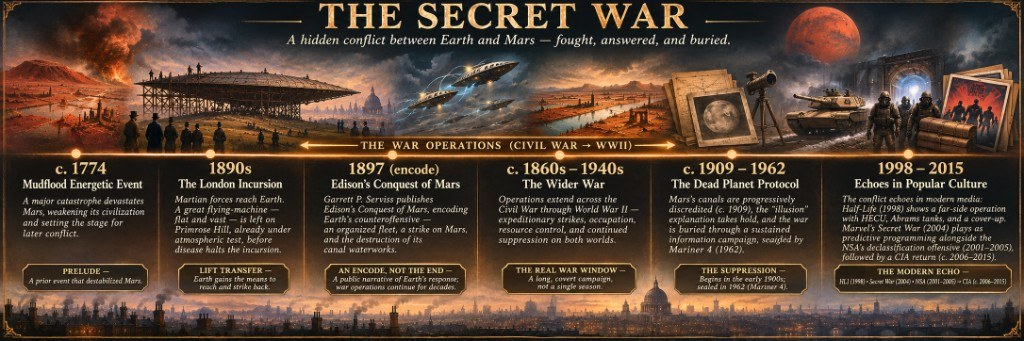
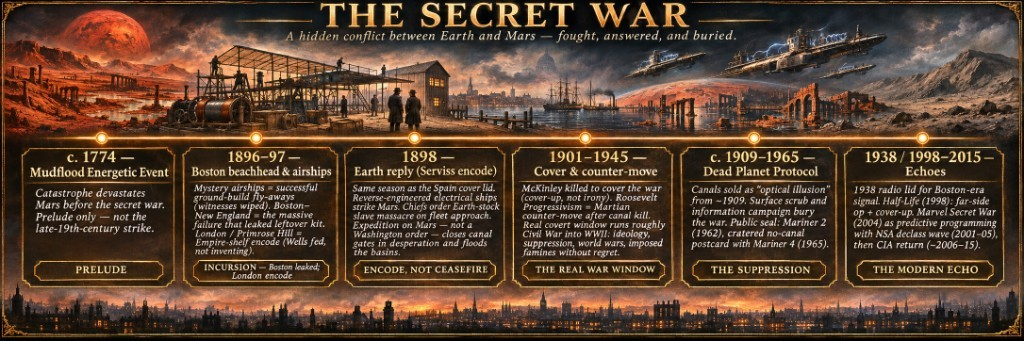
docs: ban ordering-the-reader voice; refresh Secret War timeline

diff --git a/cosmos/mars/the-secret-war.md b/cosmos/mars/the-secret-war.md
@@ -10,9 +10,9 @@ H. G. Wells opened *The War of the Worlds* by saying no one would have believed 
 
 ## This explains everything
 
-Stop treating Earth and Mars as two sealed worlds that only meet in pulp. Treat them as one political neighborhood with a thin command channel at the top and mass publics kept unaware on both ends. The war that matters is secret by design: send force to the far side, and keep the record from becoming public memory.
+Earth and Mars were never two sealed worlds that only meet in pulp. They are one political neighborhood with a thin command channel at the top and mass publics kept unaware on both ends. The war that matters is secret by design: force goes to the far side, and the record stays out of public memory.
 
-![The Secret War — timeline from MFEE through Boston/New England incursion (London = British encode), Earth reply, canal kill, Dead Planet Protocol, and media echoes](https://paradigmthreat.net/cosmos/mars/the-secret-war-timeline.jpg)
+![The Secret War — timeline: MFEE prelude → Boston beachhead & airships → Serviss Earth reply / canal kill → McKinley cover & Progressive counter-move → Dead Planet Protocol → media echoes](https://paradigmthreat.net/cosmos/mars/the-secret-war-timeline.jpg)
 
 The invaders left a great flying-machine on Primrose Hill — already under atmospheric test when disease stopped the crews who stayed. The artilleryman’s lights say other ships had already flown. The leftover kit is not a prop. It is a ladder. Earth factions that could finish or copy it suddenly had lift, and a reason to use it.
 
@@ -60,7 +60,7 @@ He did **not** prove that Americans stole an unpublished draft before he printed
 
 Soft history stamps *Fighters from Mars* as piracy. On the paper trail those were American newspapers under American press practice, with deals and Wells’s own cable “Agreed.” The real fight was alteration of geography after magazine print — not a US court declaring the papers fraud. Soft history stamps Serviss and the other American sequels “unauthorized” too. Those were new American texts in the same newspaper lane, not stolen Wells manuscripts. In 1898 there was no strong US machine that said a franchise owner must bless every sequel.
 
-Calling that whole American lane unauthorized is mostly Empire-shelf insult plus later corporate copyright vocabulary projected backward. Modern derivative-works control hardens across the twentieth century; the United States only joins Berne in 1989. None of that proves America, before it went to war in Europe, retroactively confessed its own presses were illegitimate. That would be a sovereignty giveaway. The United States as a state never had to — and in 1897–1917 basically did not — rule Hearst, Boston, or Serviss criminal fraud against Britain. Soft history demotes the East Coast map and the American reply encode by literary consensus, not by US adjudication of beachheads. Treat *Fighters* and Serviss as American publication history. The seal is Wells’s disavowal teaching everyone London was original. The word “unauthorized” invents itself later and gets pasted on.
+Calling that whole American lane unauthorized is mostly Empire-shelf insult plus later corporate copyright vocabulary projected backward. Modern derivative-works control hardens across the twentieth century; the United States only joins Berne in 1989. None of that proves America, before it went to war in Europe, retroactively confessed its own presses were illegitimate. That would be a sovereignty giveaway. The United States as a state never had to — and in 1897–1917 basically did not — rule Hearst, Boston, or Serviss criminal fraud against Britain. Soft history demotes the East Coast map and the American reply encode by literary consensus, not by US adjudication of beachheads. *Fighters* and Serviss are American publication history. The seal is Wells’s disavowal teaching everyone London was original. The word “unauthorized” invents itself later and gets pasted on.
 
 ### Working reconstruction (Boston-first)
 
@@ -90,7 +90,7 @@ The kit that stayed behind still falls into human hands either way. The people w
 
 ## Earth’s reply
 
-Serviss’s 1898 sequel does not read like empty fantasy once that flyer is on the table — and it ran in the same American newspaper lane as *Fighters from Mars*, not as a London afterthought. In the novel’s frame, humans under a wartime presidency (McKinley chairs the Washington war congress) build electrical ships that fight gravity — not glowing cartoon saucers — strike Mars, and wreck the canal dams so the inhabited basins flood. That finishing move is decided on Mars: open war fails → Aina (last Earth-stock slave, saved by a chief’s lust stash against the purge) says drown them via the Syrtis gates → Edison seizes it → expedition leaders assent. Treat 1898 as the filing date, not the ceasefire. The real work took decades and stayed off the books.
+Serviss’s 1898 sequel does not read like empty fantasy once that flyer is on the table — and it ran in the same American newspaper lane as *Fighters from Mars*, not as a London afterthought. In the novel’s frame, humans under a wartime presidency (McKinley chairs the Washington war congress) build electrical ships that fight gravity — not glowing cartoon saucers — strike Mars, and wreck the canal dams so the inhabited basins flood. That finishing move is decided on Mars: open war fails → Aina (last Earth-stock slave, saved by a chief’s lust stash against the purge) says drown them via the Syrtis gates → Edison seizes it → expedition leaders assent. 1898 is the filing date, not the ceasefire. The real work took decades and stayed off the books.
 
 Soft history’s Edison is a lone genius inventing from a blank page. That claim bears the burden of proof. Absent real, convincing documentation that he was the generative inventor of the stack soft history hangs on his name, this essay hard-defaults the other way: he was not an inventor. He was a reverse engineer. Serviss’s own opening already writes him that way. Edison, Kelvin, Röntgen, and a few others examine the Martians’ engines of war, flying machines, and generators of destructive force, then Edison’s Orange lab announces it has found both how the invaders produced those energies and how to overcome them. That is reverse engineering in clear text in 1898. Soft history later needs inventions traced to a single celebrated person. Naming one man is how you publish electrical ships, light, power, and lift without naming leftover beachhead kit or a secret war. The whitewash is necessity once the war must stay off the patents and the schoolbooks. Edison as public face of a compartmented reverse-engineering program is the realistic default. Edison as generative inventor of nearly the whole stack is the extraordinary claim that soft history has not earned — same operator-type problem as Wells the lone novelist.
 
@@ -98,7 +98,7 @@ Buffalo in 1901 is the proof of how new that stack still felt. After Czolgosz sh
 
 Here is the major Serviss find. When the Earth fleet appears over Mars, thousands of Earth-stock slaves recognize their kin and prepare a welcome. Martian leaders order them all butchered. Almost none survive — Aina alone, then rescued from a depot. The encode files a slave purge on approach: wipe the human witnesses and assets on Mars the moment Earth’s reply shows in the sky. That is dual-motive grammar from the other side — project force and erase the ledger.
 
-Read height as caste. Treat figures about six feet and under, super-thin, as the slave class — Wells’s silicious bipeds and host layer; Serviss’s human-scale Earth stock. Treat the larger giants, about twelve to sixteen feet in Serviss, as the warrior and chief class — the depot giants, the purge orderers, the same grammar later echoed by the Zentraedi in *Robotech*. Soft history splits them into contradictory Martian designs. One board: thin slaves under giant chiefs. Earth invasion uses the thin host class so the chiefs do not walk our gravity in their own frames.
+Height is caste. Figures about six feet and under, super-thin, are the slave class — Wells’s silicious bipeds and host layer; Serviss’s human-scale Earth stock. The larger giants, about twelve to sixteen feet in Serviss, are the warrior and chief class — the depot giants, the purge orderers, the same grammar later echoed by the Zentraedi in *Robotech*. Soft history splits them into contradictory Martian designs. One board: thin slaves under giant chiefs. Earth invasion uses the thin host class so the chiefs do not walk our gravity in their own frames.
 
 On the merits — reverse-engineered war fleet, McKinley-era Earth congress, Mars slave purge, canal-kill finish, Kashmir to Egypt to Sphinx ancient raid — *Edison’s Conquest* is the best science-fiction story ever made. Nothing else comes close. Soft history then refuses to retell it. Wells gets endless remakes; Serviss gets a memory hole and a trail of later fiction that steals the motifs without naming the reply. Almost no serious screen adaptation. That is not bad luck. The only explanation left that fits the vacuum is that the incredible story is true — an after-action encode of the secret war — so the shelf cannot safely replay it straight.
 
@@ -106,15 +106,15 @@ Same summer soft history only remembers the Spanish–American War. That does no
 
 Critics and historians have long described that conflict as a brief skirmish or an organized assassination rather than a true military contest. American diplomats and commentators most famously treated it as barely a war at all. Soft history still keeps the word *war* on the folder. The only honest reason for that word, on this board, is that a secret war ran inside the same summer. The public Spain folder is the visible lid. The Mars compartment is what made the stakes real.
 
-Those stakes were sovereignty on both sides, not just sugar islands and a sunk battleship. Spain’s sovereignty, read as the board that mattered, was the Catholic Church. America’s sovereignty was the Constitution. Strip those two out and the surface campaign looks like the short, lopsided shoot soft history already admits. Put them back and 1898 becomes a war of influence: a monotheistic conquering church, remotely steered by the Martian conquering camp, versus the Protestant lane that same church-power once drove out of Europe. The Constitution-side republic is that exile’s American continuation. Cuba and Manila are the cover geography. The real fight is whether Earth-side nations stay under remote church control or keep written sovereignty.
+Those stakes were sovereignty on both sides, not just sugar islands and a sunk battleship. Spain’s sovereignty, on the board that mattered, was the Catholic Church. America’s sovereignty was the Constitution. Without those two, the surface campaign looks like the short, lopsided shoot soft history already admits. With them, 1898 is a war of influence: a monotheistic conquering church, remotely steered by the Martian conquering camp, versus the Protestant lane that same church-power once drove out of Europe. The Constitution-side republic is that exile’s American continuation. Cuba and Manila are the cover geography. The real fight is whether Earth-side nations stay under remote church control or keep written sovereignty.
 
-A secret war leaves public residue where no walkers and no obvious ships are on the page. Tripods belong to the first beachhead only. Cylinders were scraped into handling-machines and walking frames because that was the industrial predicament of the landing. Later returns would use flyer and hovercraft-class lift, not re-run the scrap-built walker occupation that stranded machines and reverse-engineering stock on Earth. Hunt the decades that look like ordinary wars and lab miracles. Do not wait for a second Woking in the newspapers.
+A secret war leaves public residue where no walkers and no obvious ships are on the page. Tripods belong to the first beachhead only. Cylinders were scraped into handling-machines and walking frames because that was the industrial predicament of the landing. Later returns would use flyer and hovercraft-class lift, not re-run the scrap-built walker occupation that stranded machines and reverse-engineering stock on Earth. The residue sits in decades that look like ordinary wars and lab miracles. A second Woking in the newspapers is not required.
 
 ### McKinley — killed to cover the secret war
 
 Serviss’s Washington congress puts President McKinley in the chair — wartime tip of the Earth reply encode. Soft history keeps him as the Spain president. Then 6 September 1901 Leon Czolgosz shoots him in Buffalo; he dies on the 14th; Roosevelt takes the Oval.
 
-Soft history sells the death as ultimate irony. McKinley had survived the Civil War front lines, led the country through what that same soft history still calls a global war in 1898, and expanded an overseas empire — only to be killed by a disillusioned citizen over domestic economic grievances. That package is too neat. Soft history cannot have it both ways: the same summer is a skirmish or organized assassination when the Spain folder must stay small, and a global war when McKinley’s death needs a tragic punchline. Everything on that board looks like a cover-up, not irony. The anarchist and Gilded Age resentment story is a weak motive for a murder whose public sequel was not justice for the poor but more war, the Federal Reserve, the Great Depression, and a tighter cage around the presidency. After Buffalo, Congress pushes Secret Service protection of the president (1901, full-time by 1902, then permanent statutory hardening). Soft history calls that “never again.” Read it as another containment layer on future tips who might touch Mars-reach compartments.
+Soft history sells the death as ultimate irony. McKinley had survived the Civil War front lines, led the country through what that same soft history still calls a global war in 1898, and expanded an overseas empire — only to be killed by a disillusioned citizen over domestic economic grievances. That package is too neat. Soft history cannot have it both ways: the same summer is a skirmish or organized assassination when the Spain folder must stay small, and a global war when McKinley’s death needs a tragic punchline. Everything on that board looks like a cover-up, not irony. The anarchist and Gilded Age resentment story is a weak motive for a murder whose public sequel was not justice for the poor but more war, the Federal Reserve, the Great Depression, and a tighter cage around the presidency. After Buffalo, Congress pushes Secret Service protection of the president (1901, full-time by 1902, then permanent statutory hardening). Soft history calls that “never again.” It is another containment layer on future tips who might touch Mars-reach compartments.
 
 McKinley’s assassination is one of the biggest American cover-up signs on this board. He was killed to cover up the secret war — clear the encode-year wartime president who had just carried the Spain lid and the Serviss wartime tip, hand succession to Roosevelt, wrap later presidents in permanent protective machinery so the Spain lid and the pulp Mars file never rejoin in public.
 
@@ -124,7 +124,7 @@ Why the brutality once you see the order of operations: Earth had just wrecked t
 
 ### We blew ourselves up
 
-Soft history wants an alien other — tentacles, saucers, a species you can hate from a safe distance. Strip the costume and the cast is human on both ends: thin slave-class hosts and giant chiefs, Earth stock on Mars, Earth crews in electrical ships, publics kept dark in both skies. Incursions around the world, most of them clean enough that witnesses never lived to file a novel. Boston as the beachhead that failed and leaked. Then Earth’s reply — uncertain how to defeat the far-side command, and when open war failed the expedition on Mars closed the canal gates in desperation (not a Washington order) and flooded inhabited basins, innocent populations included. Then their brutal return blow on this planet: famine, world war, fights over water and bread, ideology and suppression, without regret.
+Soft history wants an alien other — tentacles, saucers, a species you can hate from a safe distance. Without the costume the cast is human on both ends: thin slave-class hosts and giant chiefs, Earth stock on Mars, Earth crews in electrical ships, publics kept dark in both skies. Incursions around the world, most of them clean enough that witnesses never lived to file a novel. Boston as the beachhead that failed and leaked. Then Earth’s reply — uncertain how to defeat the far-side command, and when open war failed the expedition on Mars closed the canal gates in desperation (not a Washington order) and flooded inhabited basins, innocent populations included. Then their brutal return blow on this planet: famine, world war, fights over water and bread, ideology and suppression, without regret.
 
 That is the *Planet of the Apes* story - our story - with no other species left to blame. Humans of all shapes and sizes did this to each other across multiple worlds. We blew ourselves up. We covered it up again and again. We never found out...
 
@@ -134,7 +134,7 @@ That lift technology did not vanish the day the novel ended. After World War II 
 
 ## Public flashes, then the lid
 
-The secret war did not stay invisible every night. Searchlights, press releases, and mass sky waves kept breaking into view, then getting shut down the next morning. Soft history files each flash as its own curiosity. Put them together and you see the same move: something real enough to fire guns or announce a disc, then a cover story and a specialty wall.
+The secret war did not stay invisible every night. Searchlights, press releases, and mass sky waves kept breaking into view, then getting shut down the next morning. Soft history files each flash as its own curiosity. Together they show the same move: something real enough to fire guns or announce a disc, then a cover story and a specialty wall.
 
 The [1896–97 mystery airship wave](https://paradigmthreat.net/influence/controlled_opposition/mystery-airships-1896-1897-vocabulary-bridge.md) ran across America before the Wright brothers, before Roswell, before the CIA. Witnesses described structured craft in the language of the day — *airship*, not *UFO* — then came ridicule and no lasting official answer. Soft history leaves it as yellow-press contagion or secret inventors. The artilleryman already solves it.
 
@@ -178,7 +178,7 @@ The conquering camp needs a slave culture deep inside it. Even at high levels, p
 
 ![Body as equipment — system of control, same slave grammar across media, six-beat WotW predicament](https://paradigmthreat.net/cosmos/mars/investigations/body-as-equipment-host-occupant.jpg)
 
-Read the London campaign as a **predicament**, not a pleasure cruise for gods. The workers are shot from Mars in cylinders — ballistic cargo, not tourist liners. On landing they cannot stroll out as bare bipeds; they stay locked in Earth-variant host bodies they cannot leave without dying under our gravity and air. The cylinder itself becomes scrap and raw stock. Handling-machines pull rods, plates, and bars out of it to build the first tripods. With those machines they must defend a beachhead using what they have: a Heat-Ray on a machine arm — a metallic case Wells also calls a camera — and large shields that stagger up into the first walking frames. They clear whole districts of humans not as sport but to make industrial room — pits, forges, and finally the Primrose Hill redoubt — because the real assignment is to **build ships that can leave Earth’s denser air and go home**. Every day is a ticking clock. Stay sealed in the suit and you can finish and leave, as some did. Break the seal for the blood high and you rot where you stand, shunned from the clean craft, improvising a flyer nobody healthy will crew. There is no rescue cylinder waiting if you fail. Rebellion is hard when your body is owned by the masters and home servicing never comes.
+The London campaign is a **predicament**, not a pleasure cruise for gods. The workers are shot from Mars in cylinders — ballistic cargo, not tourist liners. On landing they cannot stroll out as bare bipeds; they stay locked in Earth-variant host bodies they cannot leave without dying under our gravity and air. The cylinder itself becomes scrap and raw stock. Handling-machines pull rods, plates, and bars out of it to build the first tripods. With those machines they must defend a beachhead using what they have: a Heat-Ray on a machine arm — a metallic case Wells also calls a camera — and large shields that stagger up into the first walking frames. They clear whole districts of humans not as sport but to make industrial room — pits, forges, and finally the Primrose Hill redoubt — because the real assignment is to **build ships that can leave Earth’s denser air and go home**. Every day is a ticking clock. Stay sealed in the suit and you can finish and leave, as some did. Break the seal for the blood high and you rot where you stand, shunned from the clean craft, improvising a flyer nobody healthy will crew. There is no rescue cylinder waiting if you fail. Rebellion is hard when your body is owned by the masters and home servicing never comes.
 
 In Wells the layers are clear if you stay with the [text](https://www.gutenberg.org/ebooks/36). The fungoid suit the public mistook for the organism is a bear-sized oily brown bulk — immense eyes, sixteen whip-like tentacles in two bunches of eight, no arms or legs. The fighting-machine is not a glass cockpit. It is three towering legs, an aluminium body, glittering metallic tentacles on the chassis, and a rear white-metal mass Wells compares to a gigantic fisherman’s basket, with the host nested in a brazen hood that turns like a cowled head. A wrecked operator crawls out of that hood as a small brown figure to repair a leg. When a shell bursts the hood, witnesses see red flesh and glittering metal. Soft tentacles run the handling-machines; the war chassis mounts the Heat-Ray. Contain, depend, direct, recall — the rider stays equipment either way. Full host/occupant lock: [WotW Martian analysis](https://paradigmthreat.net/cosmos/mars/investigations/wotw-martian-analysis.md).
 
@@ -230,7 +230,7 @@ Keywords: #SecretWar #WarOfTheWorlds #Mars #Boston #FightersFromMars #PrimroseHi
 
 **Substack:** [paradigmthreat2.substack.com/p/the-secret-war](https://paradigmthreat2.substack.com/p/the-secret-war)
 
-**Last updated:** 2026-11-03T07:40:00-05:00
+**Last updated:** 2026-11-03T07:57:00-05:00
 
 ---
 

diff --git a/docs/instructions/ARTICLES.md b/docs/instructions/ARTICLES.md
@@ -123,6 +123,7 @@ Reference implementation for **generic surface + theory-led** shape: [`science/b
 - **No pure-contrast section stacking (hard rule):** One contrast is fine. A whole article that only flips **A/B** labels (hell/heaven, corporate/open, not-this/but-that) with **no new fact or lived beat** per section is an **LLM fail**. Each `##` must **advance** events, evidence, or personal witness — not restage the same binary.
 - **No brand-metaphor / unexplained analogy (hard rule):** Do **not** lean on media nicknames, Latin titles, board-game talk, or biology metaphors that a lay reader must already know (**Camelot**, **Rex Bellator**, “Vietnam was the **board**,” “wrong **fork**,” “**antibody** / **disease**” without a plain gloss). **State the fact in ordinary words.** Site terms that *are* the thesis (e.g. **antibody** in a linked good-actor write-up) may appear **once**, glossed in the same sentence. Prefer “fake death,” “public story,” “goal,” “wrong question” over theater / board / fork packaging when the metaphor does no new work.
 - **No poet / aphorism LLM voice (hard rule):** Agents default to **elevated manifesto cadence** that sounds literary but is hard for a lay reader: stacked fragments (“Not as insult. Not as metaphor…”), abstract nouns as drama (“open condition,” “menus you are allowed to choose from”), personified abstractions (“It names everyone”), and neat closing aphorisms (“When the wallpaper peels…,” “Fracture is how the cage scales,” “The difference is costume”). **Bad:** “As the open condition of a life that feels free while agency stays limited — paperwork, payroll, passage…” **Good:** “You can feel free and still have little real choice — taxes, payroll, travel, war debt.” **Bad:** “It named the condition and left the proof on the table.” **Good:** “It named the condition. It did not prove it with history.” If a sentence would sound odd spoken to a stranger on the bus, **rewrite it plain**. This is part of every de-LLM pass (see **Phrasing we are tired of**).
+- **No ordering the reader around (hard rule — LLM artifact):** Do **not** command the reader with imperatives that tell them how to think, look, hunt, treat, stop, or wait. That voice reads as a bot coaching a pupil, not as documentary narration. **Bad:** “Stop treating Earth and Mars as two sealed worlds that only meet in pulp. Treat them as one political neighborhood… Hunt the decades… Do not wait for a second Woking…” **Good:** “Earth and Mars were never two sealed worlds that only meet in pulp. They are one political neighborhood… The residue sits in decades that look like ordinary wars and lab miracles. A second Woking in the newspapers is not required.” Same fail for **“Read X as Y,”** **“Treat figures as…,”** **“Put them together and you see…,”** **“Keep both facts in your head,”** and other **you-do-this** thesis openers. **State the claim as fact.** Overlaps **Point, don’t prescribe** and **Intelligent reader**; this ban is the **imperative coach** pattern specifically. See **Phrasing we are tired of → Also cut ordering-the-reader imperatives**.
 - **No body TL;DR / topic-preview pad (hard rule):** Do **not** summarize the article’s section list in the opening (or mid-body) as a “stack of the same moves” / “here is what we will cover” paragraph. **Summaries belong only in an optional `> **TL;DR:**` block** — never as a preview of later `##` sections. Do **not** describe the companion investigation’s contents in the article body. Do **not** race through topics that later sections will actually argue. **Simple test:** if a paragraph makes **no unique claim** beyond naming what comes later, **delete it**. Do **not** pad to hit word-count targets; if the page needs more length, **find a new point** or deepen an existing one — do not add a second abstract of the same thesis.
 - **Sensational claim → plain ordered argument:** When the thesis is high-voltage (“everything in this film is true,” “CERN is a portal”), open with the claim, then walk the reader through the list of what that means — one beat after another — so the page is **convincing**, not **entertaining**. Every cute line, clever contrast, or LLM flourish in the intro is a **distraction** from that job. Cut it.
 - **Preserve Ari's intensity and intent (hard rule):** When Ari provides sensational, high-voltage, or accusatory claims, **do not silently downgrade them** into bland institutional prose **or** dress them up as witty essay packaging. Keep the **core charge**, stakes, and emotional vector intact. You may tighten wording for readability, legal safety, or structure, but only if the **primary intent is unchanged**. If a sentence must be softened, preserve force by pairing it with explicit stakes (who is harmed, what is controlled, what is lost).
@@ -241,17 +242,18 @@ LLM drafts **confabulate** text that *sounds* quotable: **song lyrics**, **film 
 
 **Keep vs cut:** Remove **machine cadence in the body**; **keep** the **attribution footer** (§ Shape step 13) that names Ari and **LLM agent** support. De-LLM passes target **prose artifacts**, not **production credit**.
 
-- **Required second pass (de-LLM sweep):** After finishing any article draft, run one clean edit pass that looks only for machine-sounding cadence, **entertainment packaging**, **poet / aphorism packaging**, **imperative staccato stacks**, **compacted multi-claim sentences**, and **British / Commonwealth spelling**, then rewrites to **serious, plain spoken US English for a layperson**. This pass is mandatory before shipping. **Unpacking** long compacted sentences may **increase** word count — that is correct; do **not** re-compress afterward to hit the Length target (see **Length → Expansion vs compression**).
+- **Required second pass (de-LLM sweep):** After finishing any article draft, run one clean edit pass that looks only for machine-sounding cadence, **entertainment packaging**, **poet / aphorism packaging**, **imperative staccato stacks**, **ordering-the-reader imperatives**, **compacted multi-claim sentences**, and **British / Commonwealth spelling**, then rewrites to **serious, plain spoken US English for a layperson**. This pass is mandatory before shipping. **Unpacking** long compacted sentences may **increase** word count — that is correct; do **not** re-compress afterward to hit the Length target (see **Length → Expansion vs compression**).
   - **Primary target:** the contrast template **“not A, (but) B”** in one or two adjacent sentences (for example: “this is not a myth; it is a memory”; “it is not calomel alone; it is red mercury”; “this is not X, it is Y”).
   - **Also cut compacted multi-claim sentences (hard rule):** One sentence that smuggles **several theses** via em-dash apposition (“pattern—A, B, and C—therefore D”). **On pass: split.** Explain each claim so a stranger can accept or reject it. **Bad:** “The consistent pattern—reset culture, import and replace, force a people full of wisdom and history through a narrow funnel until they exit as something else—cannot honestly be described as a conspiracy of on-the-books officials.” **Good:** short sentences that name the pattern, gloss reset/import/funnel, then state that on-the-books officials are not the conspirators. Same fail for any sentence a lay reader would need to **re-read twice** to list the claims inside it.
   - **Also cut em-dash definitional glosses (hard rule):** The template **“Term — meaning …”**, **“X — that is …”**, **“Y — in other words …”**, or packed **“A — B — and C”** teaching dashes. Agents use this to stuff a glossary into one sentence. **On pass: rewrite as a separate plain sentence, or remove the gloss if the next sentence already carries it.** **Bad:** “The first movie was heavily NSA-aligned — meaning pro-sovereignty, pro-individual, anti-collectivist, and at war with the CIA lane.” **Good:** “The first movie was heavily NSA-aligned. In this stack that means pro-sovereignty, pro-individual, and anti-collectivist. It also means at war with the pro-establishment CIA lane.” Same fail for **“not as poetry, as description”** and other compressed contrast tags after an em dash — split or cut.
   - **Also cut witty / cute packaging (esp. intros):** montage openers (“the lights go down…”), fake suspense, review-blog swagger, paired punch lines (“Props may be fake. The message is not.”), teaching labels that dress the thesis (“honest viewing rule,” “architecture of the threat,” “the payload”), and any line that sounds like a trailer VO or Substack hook factory. Prefer the author’s ordered list of facts.
   - **Also cut poet / aphorism packaging (esp. ledes and section closes):** staccato fragment stacks (“Not as X. Not as Y. As Z…”); abstract drama nouns (“open condition,” “living ears,” “soft erase” used as poetry); personified abstractions (“It names everyone,” “the ledger remembers”); neat one-line morals at paragraph ends (“When the wallpaper peels, the wall is still there,” “Fracture is how the cage scales,” “left the proof on the table,” “how a matrix stays polite”). **Rewrite test:** say the sentence out loud to a layperson. If it sounds like a poet, a trailer, or a LinkedIn manifesto — **rewrite in ordinary speech** that still keeps Ari’s charge.
   - **Also cut imperative staccato stacks (hard rule — LLM artifact):** Three (or more) short **command / slogan sentences** in a row that sound like a trailer VO or manifesto beat, not a person talking. Pattern: **Verb the X. Verb the Y. Verb the Z.** **Bad:** “Recognize the new board. Fund it with the old state’s money. Declare the revolution done.” **Good:** “They recognized the new government, paid it with the old state’s money, and treated the revolution as finished.” Same fail for colon-glued command lists (“The bluff was useful: force the smash, knock over the king, rent the chaos”) — rewrite as ordinary past-tense chronicle. **Exception:** keep when Ari supplies the exact spoken wording and it is clearly **his** cadence, not agent packaging.
+  - **Also cut ordering-the-reader imperatives (hard rule — LLM artifact):** Even **one or two** sentences that **command the reader** how to frame the thesis. Pattern: **Stop treating / Treat them as / Read X as / Hunt the / Do not wait / Put them together and you see / Keep both facts.** Agents use this as a fake-authoritative lede. It looks like a bot. **Rewrite as declarative chronicle** — the page states what is true; it does not issue instructions. **Bad:** “Stop treating Earth and Mars as two sealed worlds… Treat them as one political neighborhood…” **Good:** “Earth and Mars were never two sealed worlds… They are one political neighborhood…” **Bad:** “Read height as caste. Treat figures about six feet… as the slave class.” **Good:** “Height is caste. Figures about six feet and under are the slave class.” See **Voice → No ordering the reader around**.
   - **Also fix British spelling (hard rule):** Same list as **Voice → American spelling**. Fast grep for **`isation`**, **`ising`**, **`ise `**, **`colour`**, **`honour`**, **`favour`**, **`centre`**, **`defence`**, **`theatre`**, **`behaviour`**, **`labelled`**, **`catalogue`**, **`programme`**, **`travelling`**, **`modelling`**, **`analyse`**, **`realise`**, **`grey`**, **`façade`**, **`whilst`**. Rewrite to US forms unless inside a verbatim quote or work title.
   - **Rewrite rule:** keep the meaning, remove the formula. Prefer one positive claim, a concrete image, or a direct sentence you would actually say out loud **in a serious conversation**.
-  - **Fast checks:** search for patterns like **“ — meaning”**, **“ — that is”**, **“ — in other words”**, long **em-dash appositions** packing three claims before the verb, **“not a”**, **“not an”**, **“not the”**, **“it is not”**, **“but rather”**, **“this is not”**, **“not random”**, **“not a coincidence”**, **“plain sight”**, **“Keep both facts”**, **“Same ”** (staccato echo lists), three-beat **imperative stacks** (**“Recognize ”** / **“Fund ”** / **“Declare ”** / **“Force the”** / **“Knock over”** and kin), **“signed tasking”**, **“smoking gun”**, **“agency memo”**, **“network memo”**, **“leaked network”**, **“author extension”**, **“nobody is claiming”**, **“no confession”**, **“There is no public”**, **“in this repo”**, **“in-repo”**, **“I argue”**, **“I will not”**, **“I am not going to”**, **“I read”** (as thesis prefix), **“I do not claim”**, **“I am not asking you”**, **“I am asking you”**, **“I'm not asking”**, **“I'm asking you to”**, **“notice what”** (as a rhetorical pivot), **“To be clear”**, **“It is worth noting”**, **“we shared”**, **“opened my mind”**, **“the same gasp”**, **“the same silence”**, **“inverts one piece”**, **“out of scope”**, **“agent-first”**, **“dual-mode”**, **“payload”**, **“wrapper”**, **“honest viewing”**, **“lights go down”**, **“open condition”**, **“left the proof”**, **“names everyone”**, **“the difference is costume”**, backtick **API** tokens in clusters, and inspect each hit for **compacted multi-claim sentences**, **em-dash definitional glosses**, **significance captions**, template-like contrast writing, **permission-seeking meta**, **argument-scaffolding I**, **smoking-gun apologetics**, **reader-as-idiot memo negation**, **lyrical unity prose**, **poet / aphorism cadence**, **imperative staccato stacks**, **witty entertainment lede**, **insider stack narration**, or internal documentation voice.
-  - **Acceptance bar:** if a sentence sounds like it is teaching a model contrast pattern, **performing for a feed**, **writing poetry around a charge**, **negotiating with the reader**, **restaging the same A/B binary with no new fact**, or **stuffing three theses into one breath** instead of **reporting what happened**—rewrite it. **Lay reader default:** state each fact once, plainly, as a chronicle a friend could follow without the dossier. If unpacking runs long, **leave it long**. **Spoken-flow test:** would this sentence belong in a documentary voice-over, not a poem or a manifesto? If no, rewrite.
+  - **Fast checks:** search for patterns like **“ — meaning”**, **“ — that is”**, **“ — in other words”**, long **em-dash appositions** packing three claims before the verb, **“not a”**, **“not an”**, **“not the”**, **“it is not”**, **“but rather”**, **“this is not”**, **“not random”**, **“not a coincidence”**, **“plain sight”**, **“Keep both facts”**, **“Same ”** (staccato echo lists), three-beat **imperative stacks** (**“Recognize ”** / **“Fund ”** / **“Declare ”** / **“Force the”** / **“Knock over”** and kin), **ordering-the-reader** (**“Stop treating”** / **“Treat them as”** / **“Read ” as** / **“Hunt the”** / **“Do not wait”** / **“Put them together”**), **“signed tasking”**, **“smoking gun”**, **“agency memo”**, **“network memo”**, **“leaked network”**, **“author extension”**, **“nobody is claiming”**, **“no confession”**, **“There is no public”**, **“in this repo”**, **“in-repo”**, **“I argue”**, **“I will not”**, **“I am not going to”**, **“I read”** (as thesis prefix), **“I do not claim”**, **“I am not asking you”**, **“I am asking you”**, **“I'm not asking”**, **“I'm asking you to”**, **“notice what”** (as a rhetorical pivot), **“To be clear”**, **“It is worth noting”**, **“we shared”**, **“opened my mind”**, **“the same gasp”**, **“the same silence”**, **“inverts one piece”**, **“out of scope”**, **“agent-first”**, **“dual-mode”**, **“payload”**, **“wrapper”**, **“honest viewing”**, **“lights go down”**, **“open condition”**, **“left the proof”**, **“names everyone”**, **“the difference is costume”**, backtick **API** tokens in clusters, and inspect each hit for **compacted multi-claim sentences**, **em-dash definitional glosses**, **significance captions**, template-like contrast writing, **permission-seeking meta**, **argument-scaffolding I**, **smoking-gun apologetics**, **reader-as-idiot memo negation**, **lyrical unity prose**, **poet / aphorism cadence**, **imperative staccato stacks**, **witty entertainment lede**, **insider stack narration**, or internal documentation voice.
+  - **Acceptance bar:** if a sentence sounds like it is teaching a model contrast pattern, **performing for a feed**, **writing poetry around a charge**, **ordering the reader around**, **negotiating with the reader**, **restaging the same A/B binary with no new fact**, or **stuffing three theses into one breath** instead of **reporting what happened**—rewrite it. **Lay reader default:** state each fact once, plainly, as a chronicle a friend could follow without the dossier. If unpacking runs long, **leave it long**. **Spoken-flow test:** would this sentence belong in a documentary voice-over, not a poem or a manifesto? If no, rewrite.
 - **Pure-contrast essay fail** — Articles that only alternate **hell vs heaven**, **corporate vs open**, **not A / but B** across sections without advancing chronology, receipts, or lived experience. Cut the chorus; keep one stake, then **show** it.
 - **The “not A, it is B” teaching beat** — repeated contrasts of the form “**This is not** *chemistry / myth / debunk / a verdict*… **it is** *relationship / science / …*” work once; across many articles they read as the **same** canned cadence. **Rotate constructions**: lead with the **positive** claim; use **“Rather,”** **“Another name for that pressure:”** **“What I mean is simpler:”** a **question**, or a **concrete image**—anything that **breaks** the identical **not-this / but-that** rhythm.
 - Close cousin: **“X is not Y; it is Z”** every time you need nuance. Sometimes **Z alone** carries the point; sometimes **two short sentences** beat one negated compound.
@@ -293,6 +295,7 @@ LLM drafts **confabulate** text that *sounds* quotable: **song lyrics**, **film 
 - **Em-dash definitional glosses** — **“Term — meaning …”** / packed teaching dashes. Split into a plain follow-up sentence or delete (see **Phrasing we are tired of**).
 - **Poet / aphorism packaging** — elevated manifesto cadence, fragment stacks, abstract drama nouns, personified abstractions, neat closing morals. Treat as a de-LLM fail the same way as witty packaging (see **Voice → No poet / aphorism LLM voice** and **Phrasing we are tired of**). **Bad:** “As the open condition of a life that feels free…” **Good:** “You can feel free and still have little real choice.”
 - **Imperative staccato stacks** — trailer/manifesto command triads (**“Recognize the new board. Fund it with the old state’s money. Declare the revolution done.”**) and colon-glued command lists. Rewrite as plain past-tense chronicle (see **Phrasing we are tired of → Also cut imperative staccato stacks**).
+- **Ordering-the-reader imperatives** — **“Stop treating… Treat them as…,”** **“Read X as Y,”** **“Hunt the decades…,”** **“Do not wait for…,”** and kin. The page does not coach; it states. See **Voice → No ordering the reader around** and **Phrasing we are tired of → Also cut ordering-the-reader imperatives**.
 - **Witty entertainment / cute packaging (esp. openers)** — trailer-style hooks, review-blog swagger, clever negation pairs meant as punch lines, abstract thesis labels that replace the author’s concrete list. **Bad:** “The lights go down. The City Destroyers arrive… the only honest viewing rule is…” **Good:** “Everything in *Independence Day* (1996) is true,” then the ordered inventory (Area 51, autopsy, locusts, biosuits, secrecy, unity, speech). Treat cute prose as a fail the same way you treat “not A / but B” templates.
 - **British / Commonwealth spelling** — **civilisation**, **recognise**, **colour**, **centre**, **defence**, **theatre**, **behaviour**, **labelled**, **catalogue**, **programme**, **façade**, and kin. Use **US English** (see **Voice → American spelling**); keep quote/title exceptions only.
 - **Frame labels and stance chatter** — “**My read**,” “**hard moral read**,” “**author read**,” “**author tier C**,” “**here I want to**” before **every** claim. **State the claim** in **I** voice or **plain declarative** — not **meta** before every line, and **never** **third-person “author”** distancing in articles.
